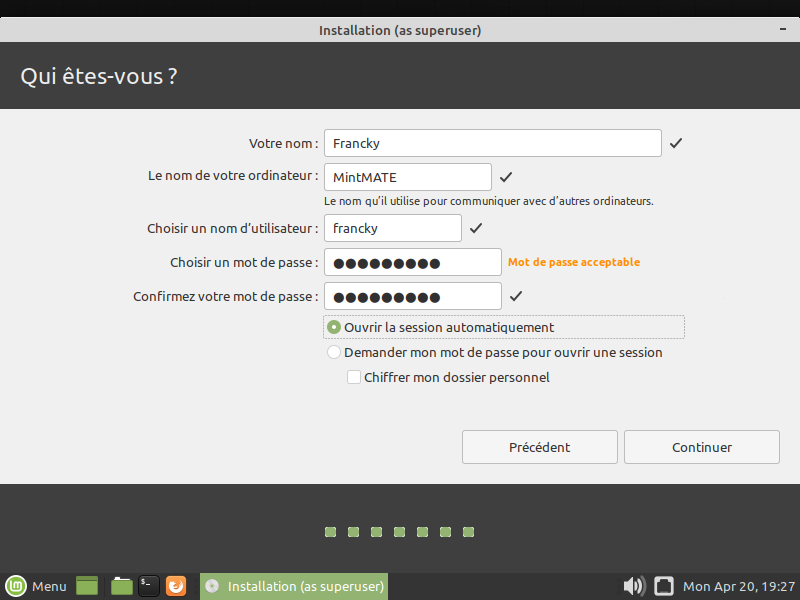
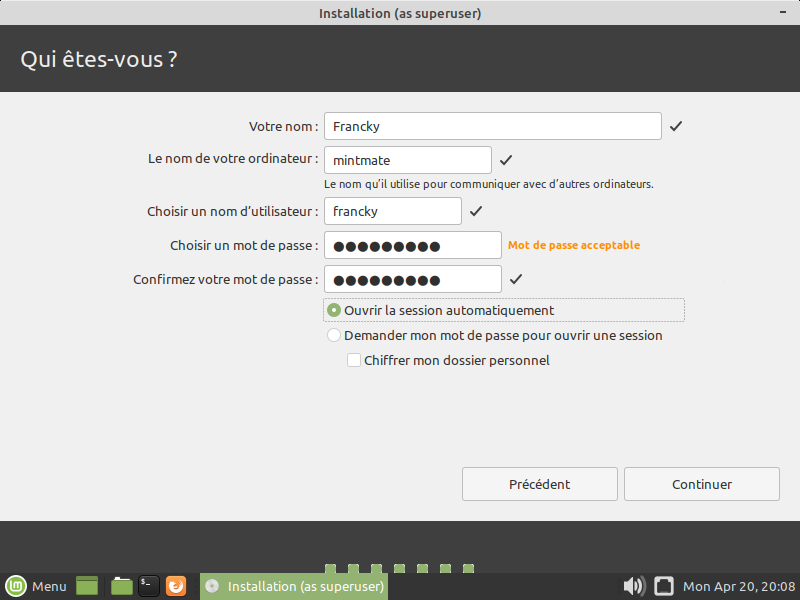
minuscules

diff --git a/NSI/1-Virtualbox/1-Virtualbox.html b/NSI/1-Virtualbox/1-Virtualbox.html
@@ -1973,7 +1973,7 @@ Dans ce cas, la touche <kbd>Ctrl(droit)</kbd> est votre touche <kbd><strong>Host
 <ul>
 <li>On entre les param&#xE8;tres de l&apos;administrateur.</li>
 <li>Majuscules et espaces possibles pour le nom.</li>
-<li>Majuscules et espaces <strong>interdites</strong> pour le nom de la machine. <a href="https://fr.wikipedia.org/wiki/Tiret_bas">Tiret bas</a> ( <code>_</code> ) possible.</li>
+<li>Majuscules et espaces <strong>d&#xE9;conseill&#xE9;es</strong> pour le nom de la machine. <a href="https://fr.wikipedia.org/wiki/Tiret_bas">Tiret bas</a> ( <code>_</code> ) possible.</li>
 <li>Majuscules et espaces <strong>interdites</strong> pour le nom d&apos;utilisateur (<em>login</em>).</li>
 <li>On <strong>note soigneusement</strong> un bon mot de passe.</li>
 <li>Pour un premier test, on peut choisir : <code>Se connecter automatiquement</code>.</li>

diff --git a/NSI/1-Virtualbox/1-Virtualbox.md b/NSI/1-Virtualbox/1-Virtualbox.md
@@ -371,7 +371,7 @@ On peut **effacer le disque et installer Linux Mint**.
 
 * On entre les paramètres de l'administrateur.
 * Majuscules et espaces possibles pour le nom.
-* Majuscules et espaces **interdites** pour le nom de la machine. [Tiret bas](https://fr.wikipedia.org/wiki/Tiret_bas) ( `_` ) possible.
+* Majuscules et espaces **déconseillées** pour le nom de la machine. [Tiret bas](https://fr.wikipedia.org/wiki/Tiret_bas) ( `_` ) possible.
 * Majuscules et espaces **interdites** pour le nom d'utilisateur (*login*).
 * On **note soigneusement** un bon mot de passe.
 * Pour un premier test, on peut choisir : `Se connecter automatiquement`.

diff --git a/NSI/2-config-Linux/2-config-Linux.md b/NSI/2-config-Linux/2-config-Linux.md
@@ -9,13 +9,14 @@ presentation:
   margin: 0.1
 
   progress: true
+  previewLinks: true
 ---
 
 <!-- slide -->
 
 # Première configuration de *Linux*
 
-Avec l'exemple de *Linux Mint* LMDE 4
+Avec l'exemple de *Linux Mint MATE*
 
 <!-- slide vertical=true -->
 
